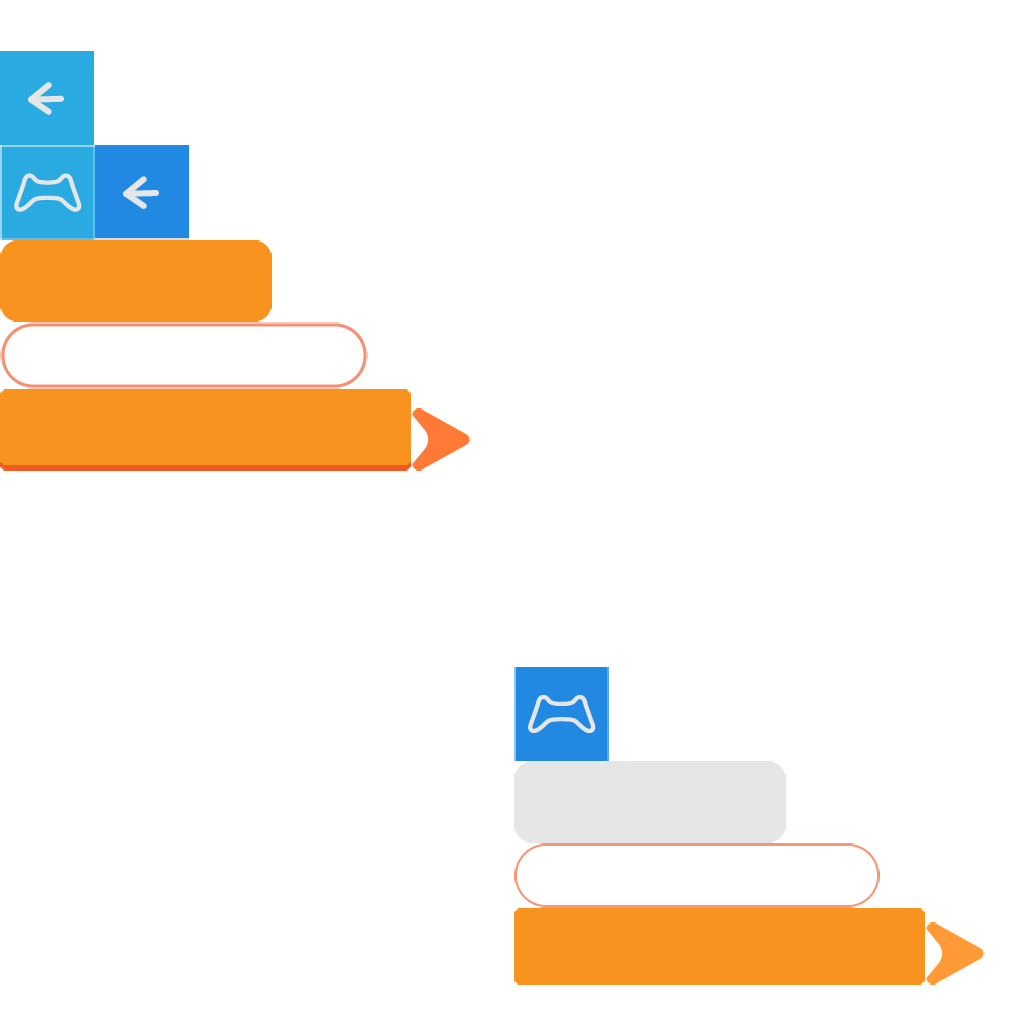
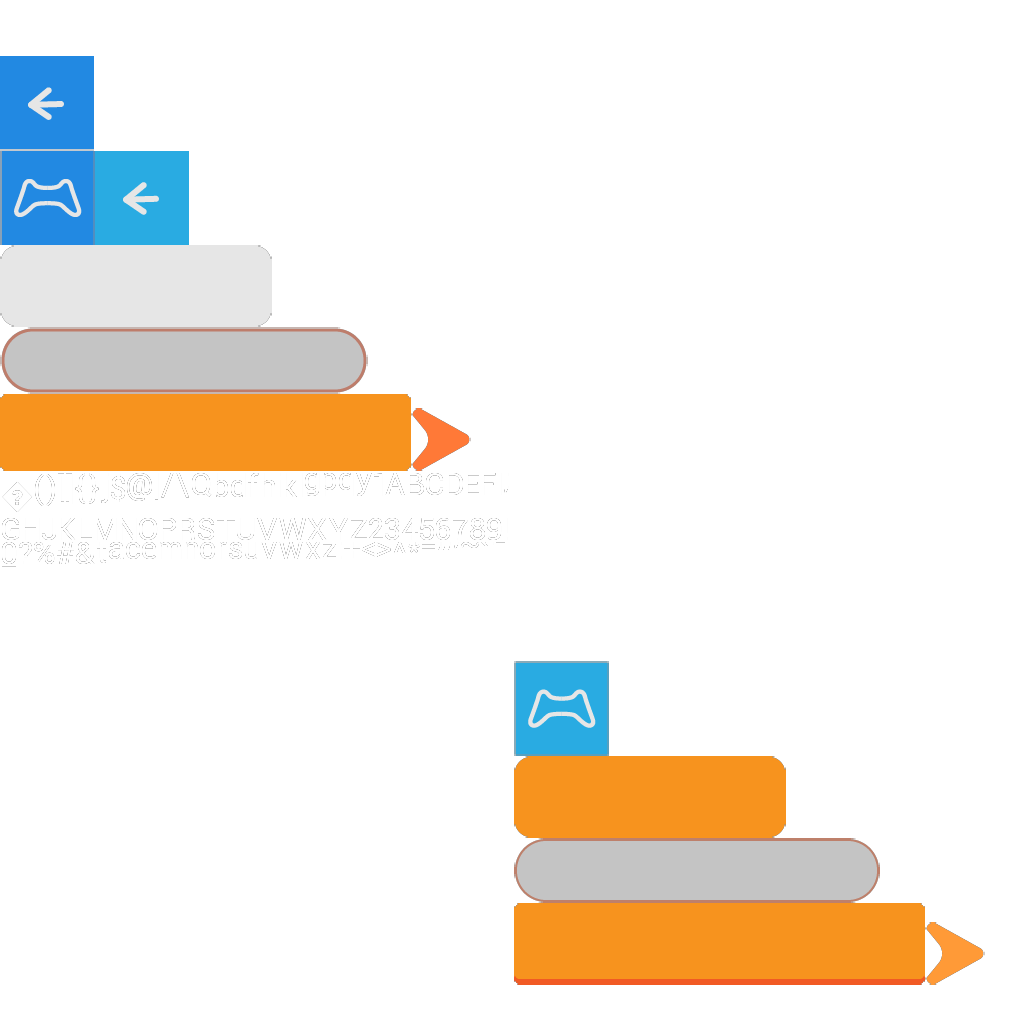
Set modern skin

diff --git a/core/src/com/github/bot/curiosone/app/chat/helpers/ChatElementFactory.java b/core/src/com/github/bot/curiosone/app/chat/helpers/ChatElementFactory.java
@@ -24,7 +24,7 @@ public class ChatElementFactory {
     gameButton.addListener(ScreenManager.getListener(ScreenEnum.GAMECENTER));
     switch (style) {
       case MODERN :
-        gameButton.setPosition(308, 708);
+        gameButton.setPosition(400, 708);
         gameButton.setSize(92, 92);
         return gameButton;
       case FUTURISTIC :
@@ -57,13 +57,13 @@ public class ChatElementFactory {
     switch (style) {
       case MODERN :
         try {
-          return new SendButton(60, 65, 400, 20, AssetLoader.skin);
+          return new SendButton(60, 65, 400, 20, AssetLoader.skin.get("send", ImageButton.ImageButtonStyle.class));
         } catch (IOException e) {
           e.printStackTrace();
         }
       case FUTURISTIC :
         try {
-          return new SendButton(75, 58, 362, 52, AssetLoader.skin);
+          return new SendButton(75, 58, 362, 52, AssetLoader.skin.get("send", ImageButton.ImageButtonStyle.class));
         } catch (IOException e) {
           e.printStackTrace();
         }

diff --git a/core/src/com/github/bot/curiosone/app/chat/chatObjs/SendButton.java b/core/src/com/github/bot/curiosone/app/chat/chatObjs/SendButton.java
@@ -15,7 +15,6 @@ import com.github.bot.curiosone.app.chat.world.ChatWorld;
 import com.github.bot.curiosone.app.chat.world.ServerConnection;
 
 import java.io.IOException;
-import java.util.StringTokenizer;
 
 
 
@@ -25,7 +24,7 @@ public class SendButton extends ImageButton {
 
   private ServerConnection sc = new ServerConnection();
 
-  public SendButton(float width, float height, float x, float y, Skin skin) throws IOException {
+  public SendButton(float width, float height, float x, float y, ImageButtonStyle skin) throws IOException {
     super(skin);
     this.setPosition(x, y);
     this.setSize(width, height);
